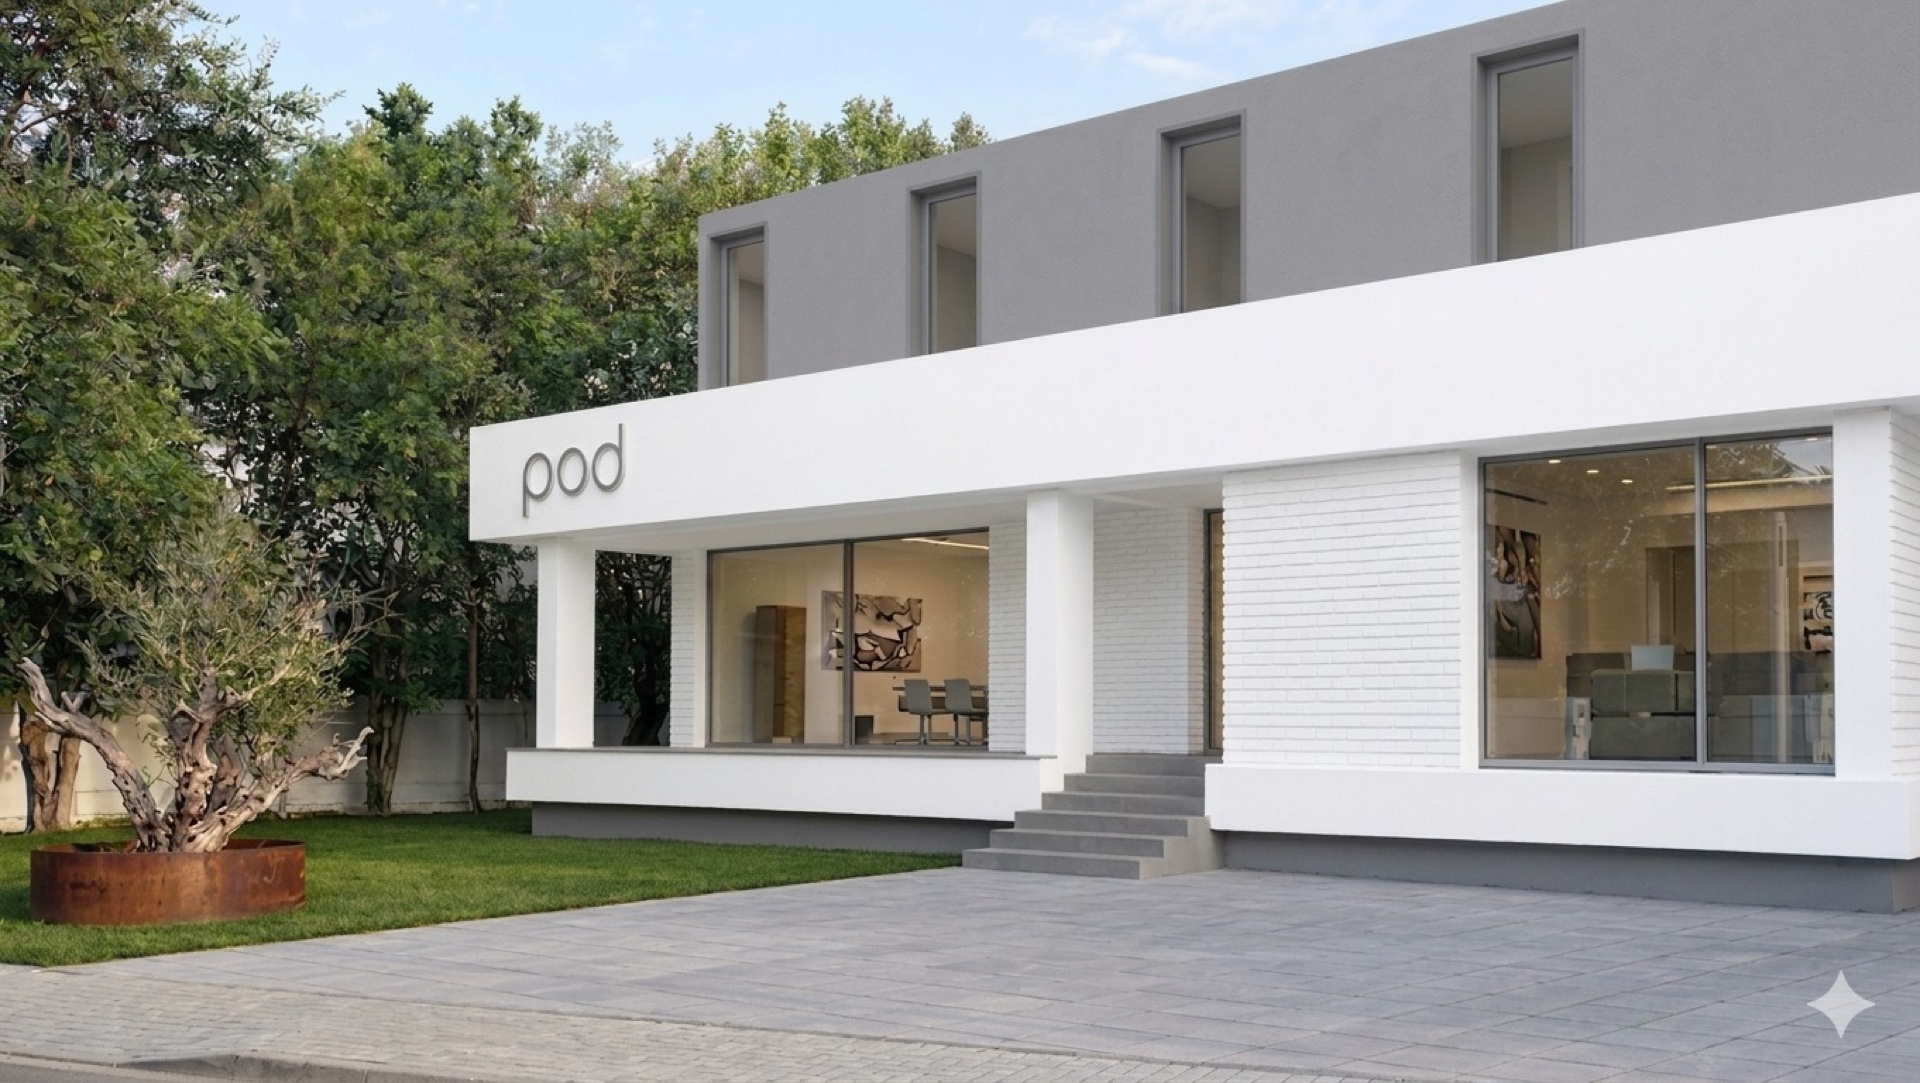
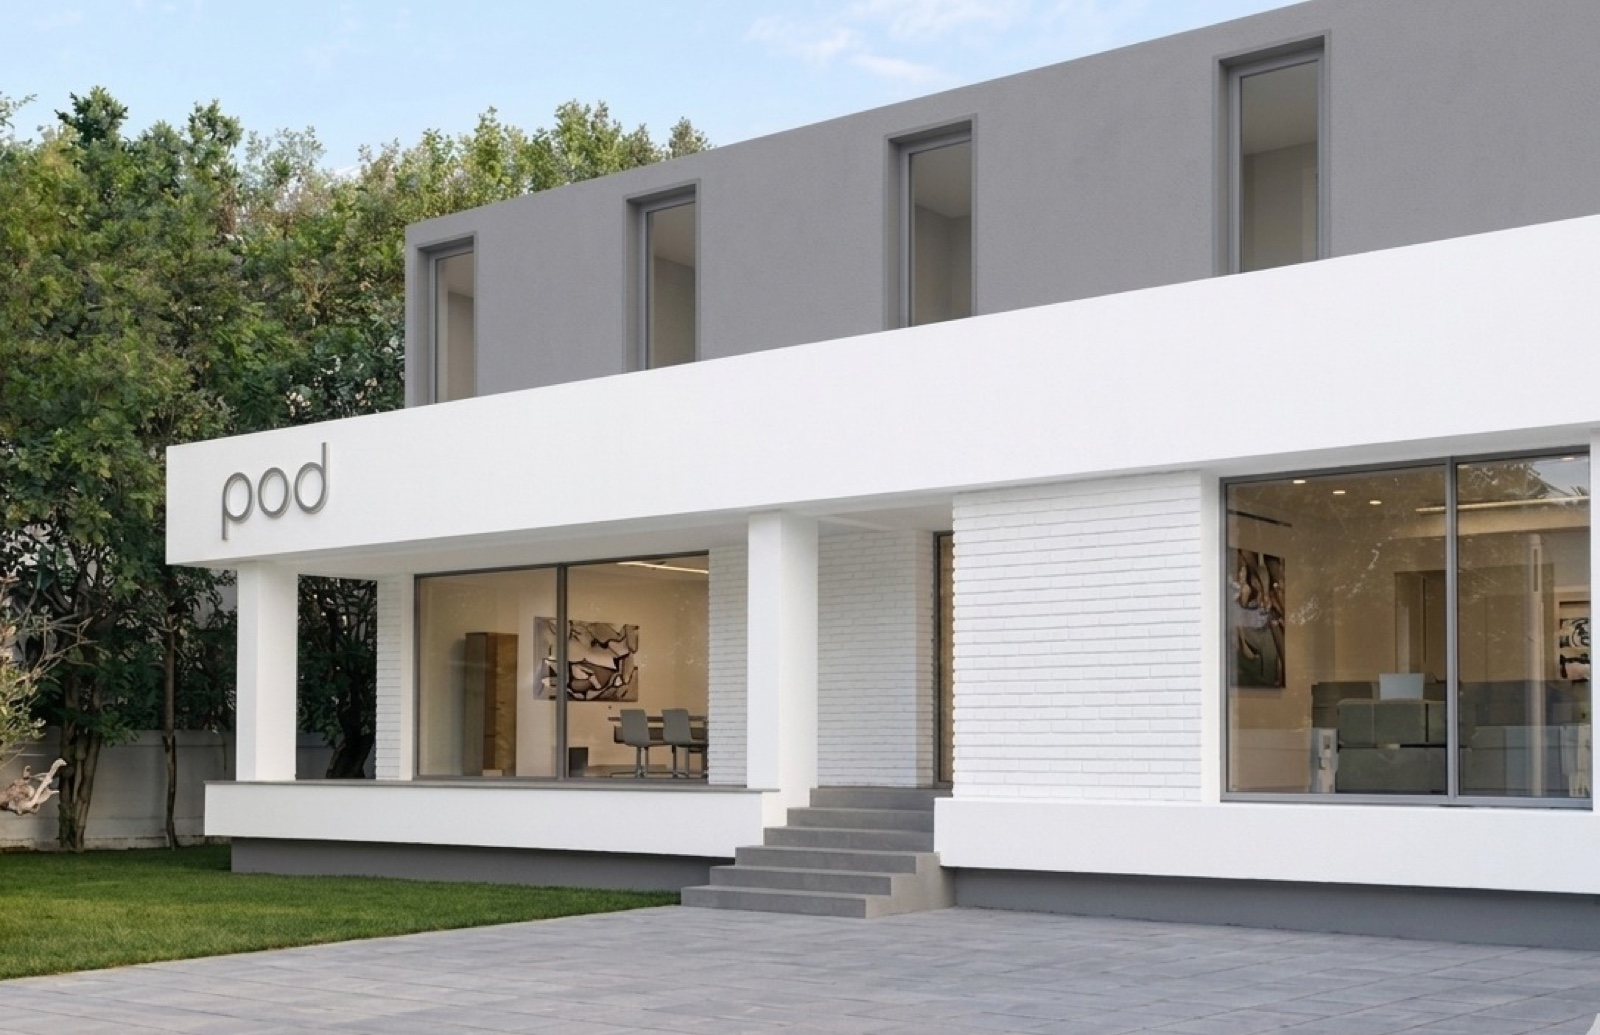
Crop studio image: remove greenery left + Gemini watermark bottom-right

diff --git a/styles.css b/styles.css
@@ -355,7 +355,7 @@ a { color: inherit; text-decoration: none; }
   height: auto;
   max-height: 70vh;
   object-fit: cover;
-  object-position: 25% center;
+  object-position: center center;
 }
 
 .studio-identity {